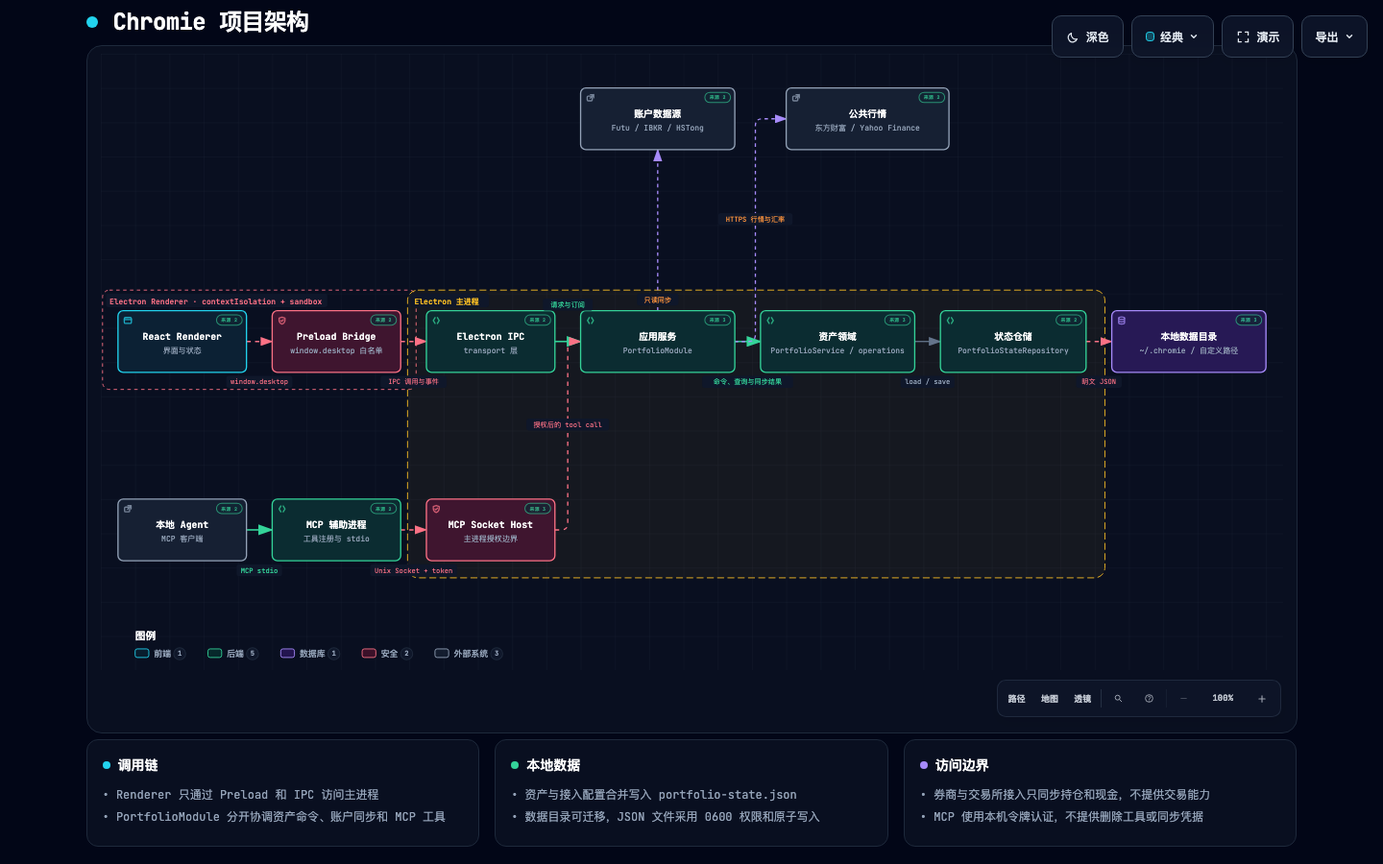
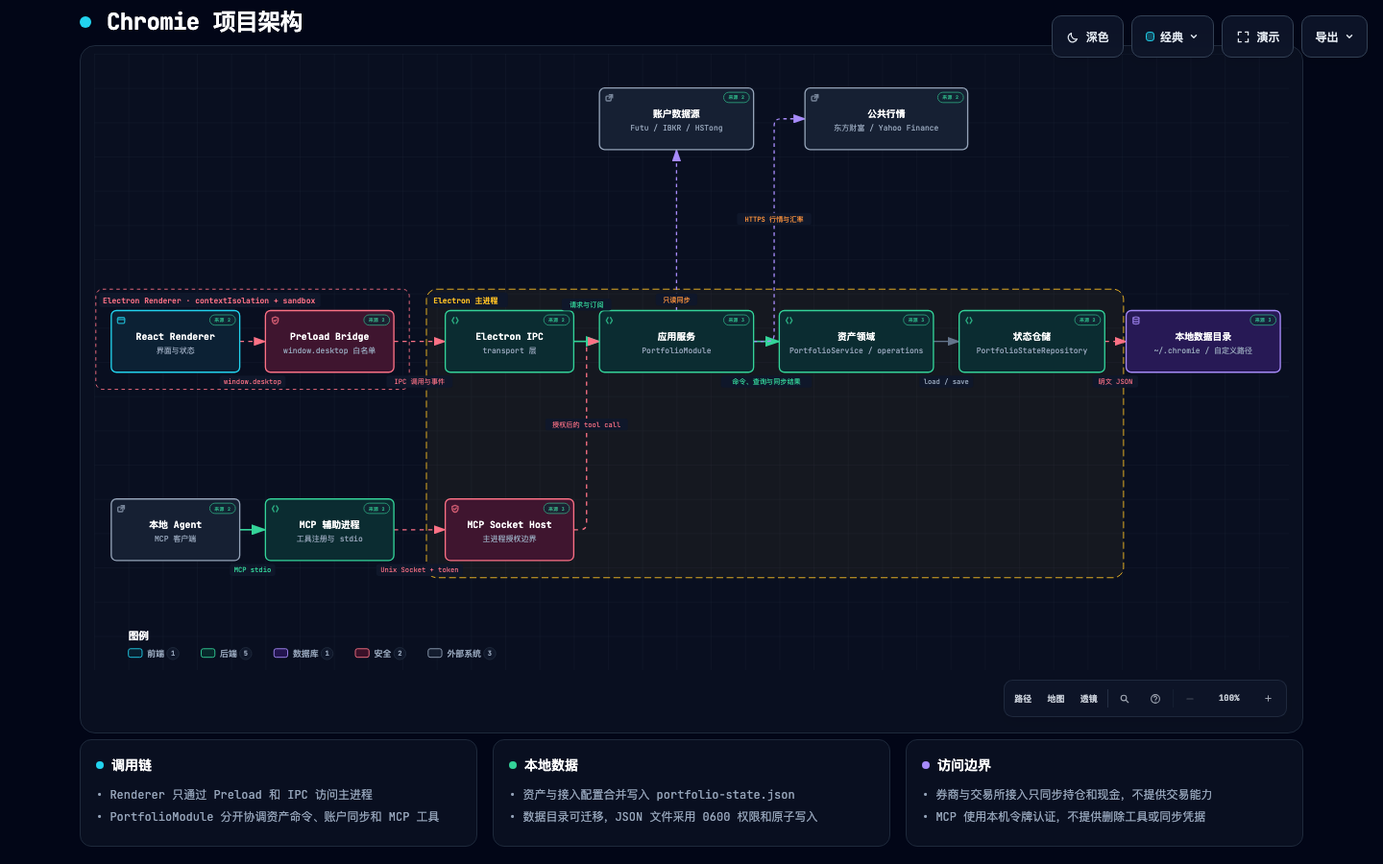
docs: improve architecture diagram spacing

diff --git a/chromie-architecture.html b/chromie-architecture.html
@@ -5004,7 +5004,7 @@
     <!-- Main Diagram -->
     <div class="diagram-container" data-detail-level="read"
          data-preset-badge-editorial-plate="ARCHIFY / 图版 04">
-      <svg viewBox="0 0 1380 720" role="img" lang="zh-CN" aria-labelledby="archify-diagram-title archify-diagram-description" data-preset="classic" data-quality-profile="showcase">
+      <svg viewBox="0 0 1395 720" role="img" lang="zh-CN" aria-labelledby="archify-diagram-title archify-diagram-description" data-preset="classic" data-quality-profile="showcase">
         <title id="archify-diagram-title">Chromie 项目架构</title>
         <desc id="archify-diagram-description">由 Archify 生成的架构图。</desc>
         <!-- Definitions -->
@@ -5030,22 +5030,22 @@
         <rect width="100%" height="100%" fill="url(#grid)" />
 
         <!-- Boundaries (behind everything) -->
-        <rect data-graph-role="structural-frame" data-composition-frame-kind="security-group" data-composition-frame-id="0" data-composition-frame-label="Electron Renderer · contextIsolation + sandbox" x="2" y="276" width="366" height="116" rx="8" class="c-security-group" stroke-width="1"/>
+        <rect data-graph-role="structural-frame" data-composition-frame-kind="security-group" data-composition-frame-id="0" data-composition-frame-label="Electron Renderer · contextIsolation + sandbox" x="2" y="275" width="366" height="117" rx="8" class="c-security-group" stroke-width="1"/>
 
-        <rect data-graph-role="structural-frame" data-composition-frame-kind="region" data-composition-frame-id="1" data-composition-frame-label="Electron 主进程" x="358" y="276" width="814" height="336" rx="12" class="c-region" stroke-width="1"/>
+        <rect data-graph-role="structural-frame" data-composition-frame-kind="region" data-composition-frame-id="1" data-composition-frame-label="Electron 主进程" x="388" y="275" width="814" height="337" rx="12" class="c-region" stroke-width="1"/>
 
         <!-- Connection paths (before components for correct z-order) -->
         <path data-edge-from="renderer" data-edge-to="preload" data-edge-label="window.desktop" data-edge-key="0" data-edge-id="renderer_to_preload" data-composition-points="170,336;200,336" d="M 170 336 L 200 336" class="a-security" stroke-width="1.5" marker-end="url(#arrowhead-security)"/>
-        <path data-edge-from="preload" data-edge-to="ipc" data-edge-label="IPC 调用与事件" data-edge-key="1" data-edge-id="preload_to_ipc" data-composition-points="350,336;380,336" d="M 350 336 L 380 336" class="a-security" stroke-width="1.5" marker-end="url(#arrowhead-security)"/>
-        <path data-edge-from="ipc" data-edge-to="app_services" data-edge-label="请求与订阅" data-edge-key="2" data-edge-id="ipc_to_services" data-composition-points="530,336;560,336" d="M 530 336 L 560 336" class="a-emphasis" stroke-width="1.8" marker-end="url(#arrowhead-emphasis)"/>
-        <path data-edge-from="app_services" data-edge-to="portfolio_core" data-edge-label="命令、查询与同步结果" data-edge-key="3" data-edge-id="services_to_core" data-composition-points="740,336;770,336" d="M 740 336 L 770 336" class="a-emphasis" stroke-width="1.8" marker-end="url(#arrowhead-emphasis)"/>
-        <path data-edge-from="portfolio_core" data-edge-to="state_repository" data-edge-label="load / save" data-edge-key="4" data-edge-id="core_to_repository" data-composition-points="950,336;980,336" d="M 950 336 L 980 336" class="a-default" stroke-width="1.5" marker-end="url(#arrowhead)"/>
-        <path data-edge-from="state_repository" data-edge-to="local_store" data-edge-label="明文 JSON" data-edge-key="5" data-edge-id="repository_to_store" data-composition-points="1150,336;1180,336" d="M 1150 336 L 1180 336" class="a-security" stroke-width="1.5" marker-end="url(#arrowhead-security)"/>
-        <path data-edge-from="app_services" data-edge-to="account_sources" data-edge-label="只读同步" data-edge-key="6" data-edge-id="services_to_accounts" data-composition-points="650,300;650,112" d="M 650 300 L 650 112" class="a-dashed" stroke-width="1.5" marker-end="url(#arrowhead-dashed)"/>
-        <path data-edge-from="app_services" data-edge-to="market_apis" data-edge-label="HTTPS 行情与汇率" data-edge-key="7" data-edge-id="services_to_market" data-composition-points="740,336;764,336;764,76;800,76" d="M 740 336 L 756 336 Q 764 336 764 328 L 764 84 Q 764 76 772 76 L 800 76" class="a-dashed" stroke-width="1.5" marker-end="url(#arrowhead-dashed)"/>
+        <path data-edge-from="preload" data-edge-to="ipc" data-edge-label="IPC 调用与事件" data-edge-key="1" data-edge-id="preload_to_ipc" data-composition-points="350,336;410,336" d="M 350 336 L 410 336" class="a-security" stroke-width="1.5" marker-end="url(#arrowhead-security)"/>
+        <path data-edge-from="ipc" data-edge-to="app_services" data-edge-label="请求与订阅" data-edge-key="2" data-edge-id="ipc_to_services" data-composition-points="560,336;590,336" d="M 560 336 L 590 336" class="a-emphasis" stroke-width="1.8" marker-end="url(#arrowhead-emphasis)"/>
+        <path data-edge-from="app_services" data-edge-to="portfolio_core" data-edge-label="命令、查询与同步结果" data-edge-key="3" data-edge-id="services_to_core" data-composition-points="770,336;800,336" d="M 770 336 L 800 336" class="a-emphasis" stroke-width="1.8" marker-end="url(#arrowhead-emphasis)"/>
+        <path data-edge-from="portfolio_core" data-edge-to="state_repository" data-edge-label="load / save" data-edge-key="4" data-edge-id="core_to_repository" data-composition-points="980,336;1010,336" d="M 980 336 L 1010 336" class="a-default" stroke-width="1.5" marker-end="url(#arrowhead)"/>
+        <path data-edge-from="state_repository" data-edge-to="local_store" data-edge-label="明文 JSON" data-edge-key="5" data-edge-id="repository_to_store" data-composition-points="1180,336;1205,336" d="M 1180 336 L 1205 336" class="a-security" stroke-width="1.5" marker-end="url(#arrowhead-security)"/>
+        <path data-edge-from="app_services" data-edge-to="account_sources" data-edge-label="只读同步" data-edge-key="6" data-edge-id="services_to_accounts" data-composition-points="680,300;680,112" d="M 680 300 L 680 112" class="a-dashed" stroke-width="1.5" marker-end="url(#arrowhead-dashed)"/>
+        <path data-edge-from="app_services" data-edge-to="market_apis" data-edge-label="HTTPS 行情与汇率" data-edge-key="7" data-edge-id="services_to_market" data-composition-points="770,336;794,336;794,76;830,76" d="M 770 336 L 786 336 Q 794 336 794 328 L 794 84 Q 794 76 802 76 L 830 76" class="a-dashed" stroke-width="1.5" marker-end="url(#arrowhead-dashed)"/>
         <path data-edge-from="mcp_consumer" data-edge-to="mcp_stdio" data-edge-label="MCP stdio" data-edge-key="8" data-edge-id="consumer_to_stdio" data-composition-points="170,556;200,556" d="M 170 556 L 200 556" class="a-emphasis" stroke-width="1.8" marker-end="url(#arrowhead-emphasis)"/>
-        <path data-edge-from="mcp_stdio" data-edge-to="mcp_socket" data-edge-label="Unix Socket + token" data-edge-key="9" data-edge-id="stdio_to_socket" data-composition-points="350,556;380,556" d="M 350 556 L 380 556" class="a-security" stroke-width="1.5" marker-end="url(#arrowhead-security)"/>
-        <path data-edge-from="mcp_socket" data-edge-to="app_services" data-edge-label="授权后的 tool call" data-edge-key="10" data-edge-id="socket_to_services" data-composition-points="530,556;545,556;545,336;560,336" d="M 530 556 L 537.5 556 Q 545 556 545 548.5 L 545 343.5 Q 545 336 552.5 336 L 560 336" class="a-security" stroke-width="1.5" marker-end="url(#arrowhead-security)"/>
+        <path data-edge-from="mcp_stdio" data-edge-to="mcp_socket" data-edge-label="Unix Socket + token" data-edge-key="9" data-edge-id="stdio_to_socket" data-composition-points="350,556;410,556" d="M 350 556 L 410 556" class="a-security" stroke-width="1.5" marker-end="url(#arrowhead-security)"/>
+        <path data-edge-from="mcp_socket" data-edge-to="app_services" data-edge-label="授权后的 tool call" data-edge-key="10" data-edge-id="socket_to_services" data-composition-points="560,556;575,556;575,336;590,336" d="M 560 556 L 567.5 556 Q 575 556 575 548.5 L 575 343.5 Q 575 336 582.5 336 L 590 336" class="a-security" stroke-width="1.5" marker-end="url(#arrowhead-security)"/>
 
         <!-- Components -->
         <g id="node-renderer" data-node-id="renderer" data-node-label="React Renderer" tabindex="0" role="button" aria-label="聚焦React Renderer，界面与状态, Electron Renderer · contextIsolation + sandbox" aria-pressed="false" data-node-kind="frontend" data-node-sublabel="界面与状态" data-node-tag="React 19 + shadcn/ui" data-node-context="Electron Renderer · contextIsolation + sandbox">
@@ -5078,89 +5078,89 @@
 
         <g id="node-ipc" data-node-id="ipc" data-node-label="Electron IPC" tabindex="0" role="button" aria-label="聚焦Electron IPC，transport 层, Electron 主进程" aria-pressed="false" data-node-kind="backend" data-node-sublabel="transport 层" data-node-tag="可信窗口校验" data-node-context="Electron 主进程">
           <title>Electron IPC · transport 层 · Electron 主进程 · 可信窗口校验</title>
-          <rect x="380" y="300" width="150" height="72" rx="6" class="c-mask"/>
-          <rect x="380" y="300" width="150" height="72" rx="6" class="c-backend" stroke-width="1.5"/>
-          <g aria-hidden="true" data-semantic-sigil="backend" class="semantic-sigil s-backend" transform="translate(386 306) scale(0.6875)">
+          <rect x="410" y="300" width="150" height="72" rx="6" class="c-mask"/>
+          <rect x="410" y="300" width="150" height="72" rx="6" class="c-backend" stroke-width="1.5"/>
+          <g aria-hidden="true" data-semantic-sigil="backend" class="semantic-sigil s-backend" transform="translate(416 306) scale(0.6875)">
             <path d="M6 3 3 8l3 5M10 3l3 5-3 5"/>
           </g>
-          <text data-node-label="" data-detail-anchor="" x="455" y="334" class="t-primary" font-size="11" font-weight="600" text-anchor="middle">Electron IPC</text>
-        <text data-detail="context" x="455" y="350" class="t-muted" font-size="9" text-anchor="middle">transport 层</text>
-        <text data-detail="fine" x="455" y="364" class="t-backend" font-size="7" text-anchor="middle">可信窗口校验</text>
+          <text data-node-label="" data-detail-anchor="" x="485" y="334" class="t-primary" font-size="11" font-weight="600" text-anchor="middle">Electron IPC</text>
+        <text data-detail="context" x="485" y="350" class="t-muted" font-size="9" text-anchor="middle">transport 层</text>
+        <text data-detail="fine" x="485" y="364" class="t-backend" font-size="7" text-anchor="middle">可信窗口校验</text>
         </g>
 
         <g id="node-app_services" data-node-id="app_services" data-node-label="应用服务" tabindex="0" role="button" aria-label="聚焦应用服务，PortfolioModule, Electron 主进程" aria-pressed="false" data-node-kind="backend" data-node-sublabel="PortfolioModule" data-node-tag="同步、汇率、备份、MCP" data-node-context="Electron 主进程">
           <title>应用服务 · PortfolioModule · Electron 主进程 · 同步、汇率、备份、MCP</title>
-          <rect x="560" y="300" width="180" height="72" rx="6" class="c-mask"/>
-          <rect x="560" y="300" width="180" height="72" rx="6" class="c-backend" stroke-width="1.5"/>
-          <g aria-hidden="true" data-semantic-sigil="backend" class="semantic-sigil s-backend" transform="translate(566 306) scale(0.6875)">
+          <rect x="590" y="300" width="180" height="72" rx="6" class="c-mask"/>
+          <rect x="590" y="300" width="180" height="72" rx="6" class="c-backend" stroke-width="1.5"/>
+          <g aria-hidden="true" data-semantic-sigil="backend" class="semantic-sigil s-backend" transform="translate(596 306) scale(0.6875)">
             <path d="M6 3 3 8l3 5M10 3l3 5-3 5"/>
           </g>
-          <text data-node-label="" data-detail-anchor="" x="650" y="334" class="t-primary" font-size="11" font-weight="600" text-anchor="middle">应用服务</text>
-        <text data-detail="context" x="650" y="350" class="t-muted" font-size="9" text-anchor="middle">PortfolioModule</text>
-        <text data-detail="fine" x="650" y="364" class="t-backend" font-size="7" text-anchor="middle">同步、汇率、备份、MCP</text>
+          <text data-node-label="" data-detail-anchor="" x="680" y="334" class="t-primary" font-size="11" font-weight="600" text-anchor="middle">应用服务</text>
+        <text data-detail="context" x="680" y="350" class="t-muted" font-size="9" text-anchor="middle">PortfolioModule</text>
+        <text data-detail="fine" x="680" y="364" class="t-backend" font-size="7" text-anchor="middle">同步、汇率、备份、MCP</text>
         </g>
 
         <g id="node-portfolio_core" data-node-id="portfolio_core" data-node-label="资产领域" tabindex="0" role="button" aria-label="聚焦资产领域，PortfolioService / operations, Electron 主进程" aria-pressed="false" data-node-kind="backend" data-node-sublabel="PortfolioService / operations" data-node-tag="标签、账户、持仓、快照" data-node-context="Electron 主进程">
           <title>资产领域 · PortfolioService / operations · Electron 主进程 · 标签、账户、持仓、快照</title>
-          <rect x="770" y="300" width="180" height="72" rx="6" class="c-mask"/>
-          <rect x="770" y="300" width="180" height="72" rx="6" class="c-backend" stroke-width="1.5"/>
-          <g aria-hidden="true" data-semantic-sigil="backend" class="semantic-sigil s-backend" transform="translate(776 306) scale(0.6875)">
+          <rect x="800" y="300" width="180" height="72" rx="6" class="c-mask"/>
+          <rect x="800" y="300" width="180" height="72" rx="6" class="c-backend" stroke-width="1.5"/>
+          <g aria-hidden="true" data-semantic-sigil="backend" class="semantic-sigil s-backend" transform="translate(806 306) scale(0.6875)">
             <path d="M6 3 3 8l3 5M10 3l3 5-3 5"/>
           </g>
-          <text data-node-label="" data-detail-anchor="" x="860" y="334" class="t-primary" font-size="11" font-weight="600" text-anchor="middle">资产领域</text>
-        <text data-detail="context" x="860" y="350" class="t-muted" font-size="9" text-anchor="middle">PortfolioService / operations</text>
-        <text data-detail="fine" x="860" y="364" class="t-backend" font-size="7" text-anchor="middle">标签、账户、持仓、快照</text>
+          <text data-node-label="" data-detail-anchor="" x="890" y="334" class="t-primary" font-size="11" font-weight="600" text-anchor="middle">资产领域</text>
+        <text data-detail="context" x="890" y="350" class="t-muted" font-size="9" text-anchor="middle">PortfolioService / operations</text>
+        <text data-detail="fine" x="890" y="364" class="t-backend" font-size="7" text-anchor="middle">标签、账户、持仓、快照</text>
         </g>
 
         <g id="node-state_repository" data-node-id="state_repository" data-node-label="状态仓储" tabindex="0" role="button" aria-label="聚焦状态仓储，PortfolioStateRepository, Electron 主进程" aria-pressed="false" data-node-kind="backend" data-node-sublabel="PortfolioStateRepository" data-node-tag="资产与接入配置" data-node-context="Electron 主进程">
           <title>状态仓储 · PortfolioStateRepository · Electron 主进程 · 资产与接入配置</title>
-          <rect x="980" y="300" width="170" height="72" rx="6" class="c-mask"/>
-          <rect x="980" y="300" width="170" height="72" rx="6" class="c-backend" stroke-width="1.5"/>
-          <g aria-hidden="true" data-semantic-sigil="backend" class="semantic-sigil s-backend" transform="translate(986 306) scale(0.6875)">
+          <rect x="1010" y="300" width="170" height="72" rx="6" class="c-mask"/>
+          <rect x="1010" y="300" width="170" height="72" rx="6" class="c-backend" stroke-width="1.5"/>
+          <g aria-hidden="true" data-semantic-sigil="backend" class="semantic-sigil s-backend" transform="translate(1016 306) scale(0.6875)">
             <path d="M6 3 3 8l3 5M10 3l3 5-3 5"/>
           </g>
-          <text data-node-label="" data-detail-anchor="" x="1065" y="334" class="t-primary" font-size="11" font-weight="600" text-anchor="middle">状态仓储</text>
-        <text data-detail="context" x="1065" y="350" class="t-muted" font-size="9" text-anchor="middle">PortfolioStateRepository</text>
-        <text data-detail="fine" x="1065" y="364" class="t-backend" font-size="7" text-anchor="middle">资产与接入配置</text>
+          <text data-node-label="" data-detail-anchor="" x="1095" y="334" class="t-primary" font-size="11" font-weight="600" text-anchor="middle">状态仓储</text>
+        <text data-detail="context" x="1095" y="350" class="t-muted" font-size="9" text-anchor="middle">PortfolioStateRepository</text>
+        <text data-detail="fine" x="1095" y="364" class="t-backend" font-size="7" text-anchor="middle">资产与接入配置</text>
         </g>
 
         <g id="node-local_store" data-node-id="local_store" data-node-label="本地数据目录" tabindex="0" role="button" aria-label="聚焦本地数据目录，~/.chromie / 自定义路径, 架构组件" aria-pressed="false" data-node-kind="database" data-node-sublabel="~/.chromie / 自定义路径" data-node-tag="明文 JSON · 0600" data-node-context="架构组件">
           <title>本地数据目录 · ~/.chromie / 自定义路径 · 架构组件 · 明文 JSON · 0600</title>
-          <rect x="1180" y="300" width="180" height="72" rx="6" class="c-mask"/>
-          <rect x="1180" y="300" width="180" height="72" rx="6" class="c-database" stroke-width="1.5"/>
-          <g aria-hidden="true" data-semantic-sigil="database" class="semantic-sigil s-database" transform="translate(1186 306) scale(0.6875)">
+          <rect x="1205" y="300" width="180" height="72" rx="6" class="c-mask"/>
+          <rect x="1205" y="300" width="180" height="72" rx="6" class="c-database" stroke-width="1.5"/>
+          <g aria-hidden="true" data-semantic-sigil="database" class="semantic-sigil s-database" transform="translate(1211 306) scale(0.6875)">
             <ellipse cx="8" cy="4" rx="5" ry="2"/>
             <path d="M3 4v8c0 1.1 2.2 2 5 2s5-.9 5-2V4M3 8c0 1.1 2.2 2 5 2s5-.9 5-2"/>
           </g>
-          <text data-node-label="" data-detail-anchor="" x="1270" y="334" class="t-primary" font-size="11" font-weight="600" text-anchor="middle">本地数据目录</text>
-        <text data-detail="context" x="1270" y="350" class="t-muted" font-size="9" text-anchor="middle">~/.chromie / 自定义路径</text>
-        <text data-detail="fine" x="1270" y="364" class="t-database" font-size="7" text-anchor="middle">明文 JSON · 0600</text>
+          <text data-node-label="" data-detail-anchor="" x="1295" y="334" class="t-primary" font-size="11" font-weight="600" text-anchor="middle">本地数据目录</text>
+        <text data-detail="context" x="1295" y="350" class="t-muted" font-size="9" text-anchor="middle">~/.chromie / 自定义路径</text>
+        <text data-detail="fine" x="1295" y="364" class="t-database" font-size="7" text-anchor="middle">明文 JSON · 0600</text>
         </g>
 
         <g id="node-account_sources" data-node-id="account_sources" data-node-label="账户数据源" tabindex="0" role="button" aria-label="聚焦账户数据源，Futu / IBKR / HSTong, 架构组件" aria-pressed="false" data-node-kind="external" data-node-sublabel="Futu / IBKR / HSTong" data-node-tag="OKX / Binance" data-node-context="架构组件">
           <title>账户数据源 · Futu / IBKR / HSTong · 架构组件 · OKX / Binance</title>
-          <rect x="560" y="40" width="180" height="72" rx="6" class="c-mask"/>
-          <rect x="560" y="40" width="180" height="72" rx="6" class="c-external" stroke-width="1.5"/>
-          <g aria-hidden="true" data-semantic-sigil="external" class="semantic-sigil s-external" transform="translate(566 46) scale(0.6875)">
+          <rect x="590" y="40" width="180" height="72" rx="6" class="c-mask"/>
+          <rect x="590" y="40" width="180" height="72" rx="6" class="c-external" stroke-width="1.5"/>
+          <g aria-hidden="true" data-semantic-sigil="external" class="semantic-sigil s-external" transform="translate(596 46) scale(0.6875)">
             <rect x="2.5" y="5" width="8.5" height="8" rx="1.5"/>
             <path d="M8 2.5h5.5V8M13.5 2.5 7.5 8.5"/>
           </g>
-          <text data-node-label="" data-detail-anchor="" x="650" y="74" class="t-primary" font-size="11" font-weight="600" text-anchor="middle">账户数据源</text>
-        <text data-detail="context" x="650" y="90" class="t-muted" font-size="9" text-anchor="middle">Futu / IBKR / HSTong</text>
-        <text data-detail="fine" x="650" y="104" class="t-external" font-size="7" text-anchor="middle">OKX / Binance</text>
+          <text data-node-label="" data-detail-anchor="" x="680" y="74" class="t-primary" font-size="11" font-weight="600" text-anchor="middle">账户数据源</text>
+        <text data-detail="context" x="680" y="90" class="t-muted" font-size="9" text-anchor="middle">Futu / IBKR / HSTong</text>
+        <text data-detail="fine" x="680" y="104" class="t-external" font-size="7" text-anchor="middle">OKX / Binance</text>
         </g>
 
         <g id="node-market_apis" data-node-id="market_apis" data-node-label="公共行情" tabindex="0" role="button" aria-label="聚焦公共行情，东方财富 / Yahoo Finance, 架构组件" aria-pressed="false" data-node-kind="external" data-node-sublabel="东方财富 / Yahoo Finance" data-node-tag="Coinbase 汇率与数字资产" data-node-context="架构组件">
           <title>公共行情 · 东方财富 / Yahoo Finance · 架构组件 · Coinbase 汇率与数字资产</title>
-          <rect x="800" y="40" width="190" height="72" rx="6" class="c-mask"/>
-          <rect x="800" y="40" width="190" height="72" rx="6" class="c-external" stroke-width="1.5"/>
-          <g aria-hidden="true" data-semantic-sigil="external" class="semantic-sigil s-external" transform="translate(806 46) scale(0.6875)">
+          <rect x="830" y="40" width="190" height="72" rx="6" class="c-mask"/>
+          <rect x="830" y="40" width="190" height="72" rx="6" class="c-external" stroke-width="1.5"/>
+          <g aria-hidden="true" data-semantic-sigil="external" class="semantic-sigil s-external" transform="translate(836 46) scale(0.6875)">
             <rect x="2.5" y="5" width="8.5" height="8" rx="1.5"/>
             <path d="M8 2.5h5.5V8M13.5 2.5 7.5 8.5"/>
           </g>
-          <text data-node-label="" data-detail-anchor="" x="895" y="74" class="t-primary" font-size="11" font-weight="600" text-anchor="middle">公共行情</text>
-        <text data-detail="context" x="895" y="90" class="t-muted" font-size="9" text-anchor="middle">东方财富 / Yahoo Finance</text>
-        <text data-detail="fine" x="895" y="104" class="t-external" font-size="7" text-anchor="middle">Coinbase 汇率与数字资产</text>
+          <text data-node-label="" data-detail-anchor="" x="925" y="74" class="t-primary" font-size="11" font-weight="600" text-anchor="middle">公共行情</text>
+        <text data-detail="context" x="925" y="90" class="t-muted" font-size="9" text-anchor="middle">东方财富 / Yahoo Finance</text>
+        <text data-detail="fine" x="925" y="104" class="t-external" font-size="7" text-anchor="middle">Coinbase 汇率与数字资产</text>
         </g>
 
         <g id="node-mcp_consumer" data-node-id="mcp_consumer" data-node-label="本地 Agent" tabindex="0" role="button" aria-label="聚焦本地 Agent，MCP 客户端, 架构组件" aria-pressed="false" data-node-kind="external" data-node-sublabel="MCP 客户端" data-node-tag="默认允许写入" data-node-context="架构组件">
@@ -5190,15 +5190,15 @@
 
         <g id="node-mcp_socket" data-node-id="mcp_socket" data-node-label="MCP Socket Host" tabindex="0" role="button" aria-label="聚焦MCP Socket Host，主进程授权边界, Electron 主进程" aria-pressed="false" data-node-kind="security" data-node-sublabel="主进程授权边界" data-node-tag="Unix Socket + token" data-node-context="Electron 主进程">
           <title>MCP Socket Host · 主进程授权边界 · Electron 主进程 · Unix Socket + token</title>
-          <rect x="380" y="520" width="150" height="72" rx="6" class="c-mask"/>
-          <rect x="380" y="520" width="150" height="72" rx="6" class="c-security" stroke-width="1.5"/>
-          <g aria-hidden="true" data-semantic-sigil="security" class="semantic-sigil s-security" transform="translate(386 526) scale(0.6875)">
+          <rect x="410" y="520" width="150" height="72" rx="6" class="c-mask"/>
+          <rect x="410" y="520" width="150" height="72" rx="6" class="c-security" stroke-width="1.5"/>
+          <g aria-hidden="true" data-semantic-sigil="security" class="semantic-sigil s-security" transform="translate(416 526) scale(0.6875)">
             <path d="M8 2.2 13 4v3.5c0 3.1-1.8 5.4-5 6.5-3.2-1.1-5-3.4-5-6.5V4Z"/>
             <path d="m5.8 8 1.5 1.5 3-3"/>
           </g>
-          <text data-node-label="" data-detail-anchor="" x="455" y="554" class="t-primary" font-size="11" font-weight="600" text-anchor="middle">MCP Socket Host</text>
-        <text data-detail="context" x="455" y="570" class="t-muted" font-size="9" text-anchor="middle">主进程授权边界</text>
-        <text data-detail="fine" x="455" y="584" class="t-security" font-size="7" text-anchor="middle">Unix Socket + token</text>
+          <text data-node-label="" data-detail-anchor="" x="485" y="554" class="t-primary" font-size="11" font-weight="600" text-anchor="middle">MCP Socket Host</text>
+        <text data-detail="context" x="485" y="570" class="t-muted" font-size="9" text-anchor="middle">主进程授权边界</text>
+        <text data-detail="fine" x="485" y="584" class="t-security" font-size="7" text-anchor="middle">Unix Socket + token</text>
         </g>
 
         <!-- Connection labels -->
@@ -5207,55 +5207,55 @@
           <text x="185" y="386" class="t-security" font-size="8" text-anchor="middle">window.desktop</text>
         </g>
         <g data-detail="context" data-edge-from="preload" data-edge-to="ipc" data-edge-label="IPC 调用与事件" data-edge-key="1" data-edge-id="preload_to_ipc">
-          <rect x="326.4" y="376" width="77.2" height="14" rx="3" class="c-mask"/>
-          <text x="365" y="386" class="t-security" font-size="8" text-anchor="middle">IPC 调用与事件</text>
+          <rect x="341.4" y="376" width="77.2" height="14" rx="3" class="c-mask"/>
+          <text x="380" y="386" class="t-security" font-size="8" text-anchor="middle">IPC 调用与事件</text>
         </g>
         <g data-detail="context" data-edge-from="ipc" data-edge-to="app_services" data-edge-label="请求与订阅" data-edge-key="2" data-edge-id="ipc_to_services">
-          <rect x="516" y="286" width="58" height="14" rx="3" class="c-mask"/>
-          <text x="545" y="296" class="t-backend" font-size="8" text-anchor="middle">请求与订阅</text>
+          <rect x="546" y="286" width="58" height="14" rx="3" class="c-mask"/>
+          <text x="575" y="296" class="t-backend" font-size="8" text-anchor="middle">请求与订阅</text>
         </g>
         <g data-detail="context" data-edge-from="app_services" data-edge-to="portfolio_core" data-edge-label="命令、查询与同步结果" data-edge-key="3" data-edge-id="services_to_core">
-          <rect x="702" y="376" width="106" height="14" rx="3" class="c-mask"/>
-          <text x="755" y="386" class="t-backend" font-size="8" text-anchor="middle">命令、查询与同步结果</text>
+          <rect x="732" y="376" width="106" height="14" rx="3" class="c-mask"/>
+          <text x="785" y="386" class="t-backend" font-size="8" text-anchor="middle">命令、查询与同步结果</text>
         </g>
         <g data-detail="context" data-edge-from="portfolio_core" data-edge-to="state_repository" data-edge-label="load / save" data-edge-key="4" data-edge-id="core_to_repository">
-          <rect x="933.6" y="376" width="62.8" height="14" rx="3" class="c-mask"/>
-          <text x="965" y="386" class="t-muted" font-size="8" text-anchor="middle">load / save</text>
+          <rect x="963.6" y="376" width="62.8" height="14" rx="3" class="c-mask"/>
+          <text x="995" y="386" class="t-muted" font-size="8" text-anchor="middle">load / save</text>
         </g>
         <g data-detail="context" data-edge-from="state_repository" data-edge-to="local_store" data-edge-label="明文 JSON" data-edge-key="5" data-edge-id="repository_to_store">
-          <rect x="1138.4" y="376" width="53.199999999999996" height="14" rx="3" class="c-mask"/>
-          <text x="1165" y="386" class="t-security" font-size="8" text-anchor="middle">明文 JSON</text>
+          <rect x="1165.9" y="376" width="53.199999999999996" height="14" rx="3" class="c-mask"/>
+          <text x="1192.5" y="386" class="t-security" font-size="8" text-anchor="middle">明文 JSON</text>
         </g>
         <g data-detail="context" data-edge-from="app_services" data-edge-to="account_sources" data-edge-label="只读同步" data-edge-key="6" data-edge-id="services_to_accounts">
-          <rect x="625.8" y="280" width="48.4" height="14" rx="3" class="c-mask"/>
-          <text x="650" y="290" class="t-messagebus" font-size="8" text-anchor="middle">只读同步</text>
+          <rect x="655.8" y="280" width="48.4" height="14" rx="3" class="c-mask"/>
+          <text x="680" y="290" class="t-messagebus" font-size="8" text-anchor="middle">只读同步</text>
         </g>
         <g data-detail="context" data-edge-from="app_services" data-edge-to="market_apis" data-edge-label="HTTPS 行情与汇率" data-edge-key="7" data-edge-id="services_to_market">
-          <rect x="720.6" y="186" width="86.8" height="14" rx="3" class="c-mask"/>
-          <text x="764" y="196" class="t-messagebus" font-size="8" text-anchor="middle">HTTPS 行情与汇率</text>
+          <rect x="750.6" y="186" width="86.8" height="14" rx="3" class="c-mask"/>
+          <text x="794" y="196" class="t-messagebus" font-size="8" text-anchor="middle">HTTPS 行情与汇率</text>
         </g>
         <g data-detail="context" data-edge-from="mcp_consumer" data-edge-to="mcp_stdio" data-edge-label="MCP stdio" data-edge-key="8" data-edge-id="consumer_to_stdio">
           <rect x="158.4" y="596" width="53.199999999999996" height="14" rx="3" class="c-mask"/>
           <text x="185" y="606" class="t-backend" font-size="8" text-anchor="middle">MCP stdio</text>
         </g>
         <g data-detail="context" data-edge-from="mcp_stdio" data-edge-to="mcp_socket" data-edge-label="Unix Socket + token" data-edge-key="9" data-edge-id="stdio_to_socket">
-          <rect x="314.4" y="596" width="101.2" height="14" rx="3" class="c-mask"/>
-          <text x="365" y="606" class="t-security" font-size="8" text-anchor="middle">Unix Socket + token</text>
+          <rect x="329.4" y="596" width="101.2" height="14" rx="3" class="c-mask"/>
+          <text x="380" y="606" class="t-security" font-size="8" text-anchor="middle">Unix Socket + token</text>
         </g>
         <g data-detail="context" data-edge-from="mcp_socket" data-edge-to="app_services" data-edge-label="授权后的 tool call" data-edge-key="10" data-edge-id="socket_to_services">
-          <rect x="496.8" y="426" width="96.39999999999999" height="14" rx="3" class="c-mask"/>
-          <text x="545" y="436" class="t-security" font-size="8" text-anchor="middle">授权后的 tool call</text>
+          <rect x="526.8" y="426" width="96.39999999999999" height="14" rx="3" class="c-mask"/>
+          <text x="575" y="436" class="t-security" font-size="8" text-anchor="middle">授权后的 tool call</text>
         </g>
 
         <!-- Boundary labels (foreground masks keep routes out of titles) -->
         <g data-graph-role="structural-frame-label" data-composition-frame-id="0" data-composition-frame-kind="security-group" data-composition-frame-label="Electron Renderer · contextIsolation + sandbox">
-          <rect data-graph-role="structural-frame-label-mask" x="6" y="280" width="258.4" height="16" rx="3" class="c-mask"/>
-          <text data-boundary-label="" x="10" y="293" class="t-security" font-size="9" font-weight="600">Electron Renderer · contextIsolation + sandbox</text>
+          <rect data-graph-role="structural-frame-label-mask" x="6" y="279" width="258.40002759999993" height="17" rx="3" class="c-mask"/>
+          <text data-boundary-label="" x="10" y="292.000001" class="t-security" font-size="9.000001" font-weight="600">Electron Renderer · contextIsolation + sandbox</text>
         </g>
 
         <g data-graph-role="structural-frame-label" data-composition-frame-id="1" data-composition-frame-kind="region" data-composition-frame-label="Electron 主进程">
-          <rect data-graph-role="structural-frame-label-mask" x="362" y="280" width="91" height="16" rx="3" class="c-mask"/>
-          <text data-boundary-label="" x="366" y="293" class="t-cloud" font-size="9" font-weight="600">Electron 主进程</text>
+          <rect data-graph-role="structural-frame-label-mask" x="392" y="279" width="91.00000899999999" height="17" rx="3" class="c-mask"/>
+          <text data-boundary-label="" x="396" y="292.000001" class="t-cloud" font-size="9.000001" font-weight="600">Electron 主进程</text>
         </g>
 
         <!-- Legend -->
